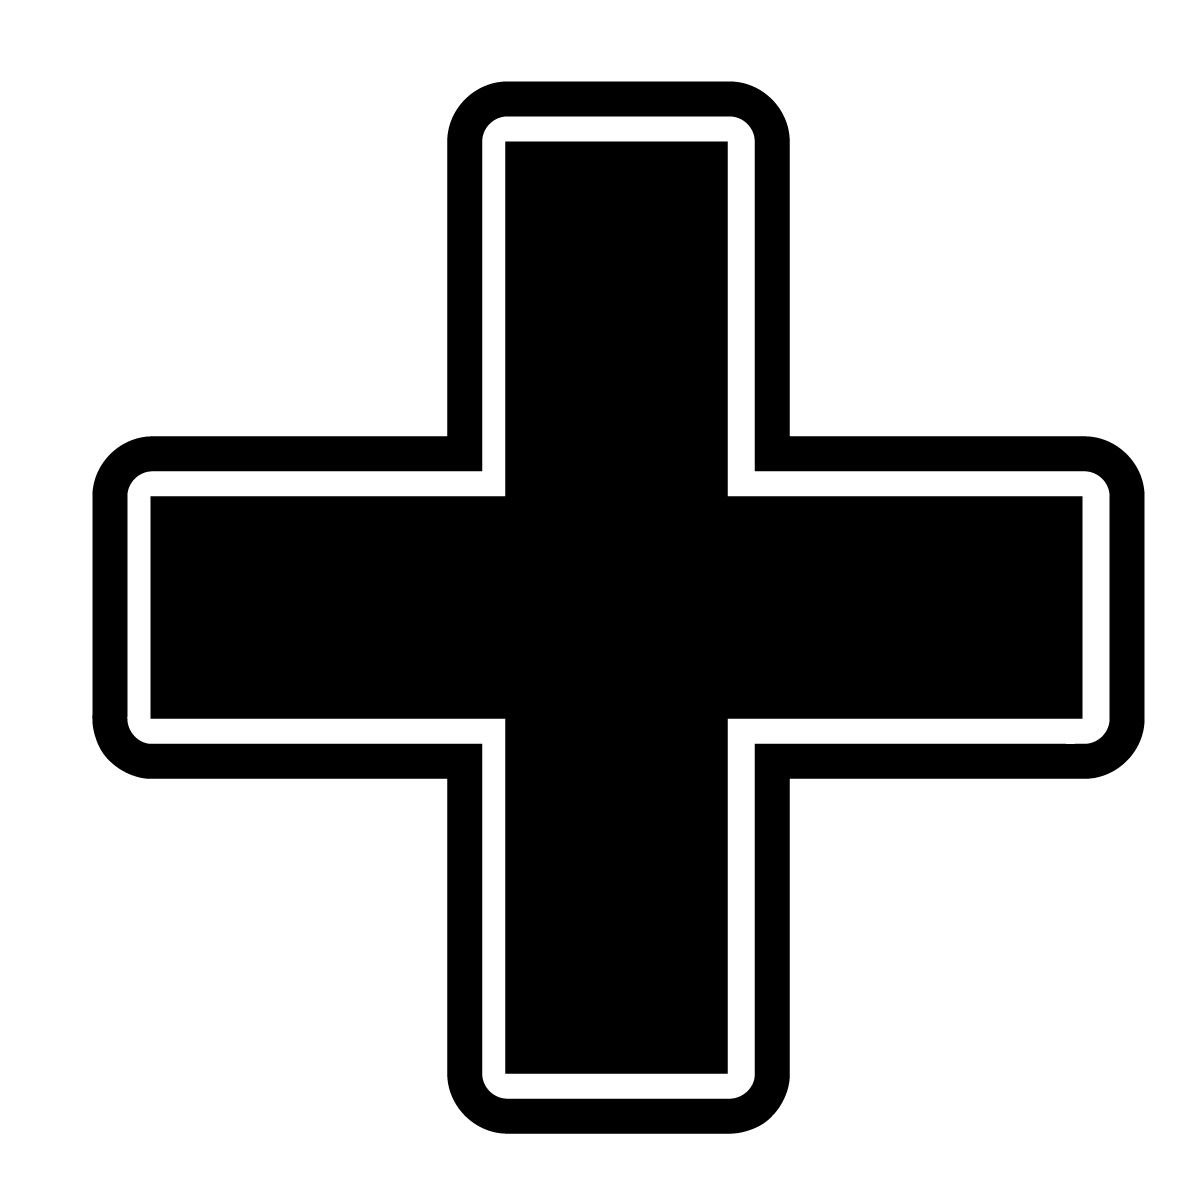
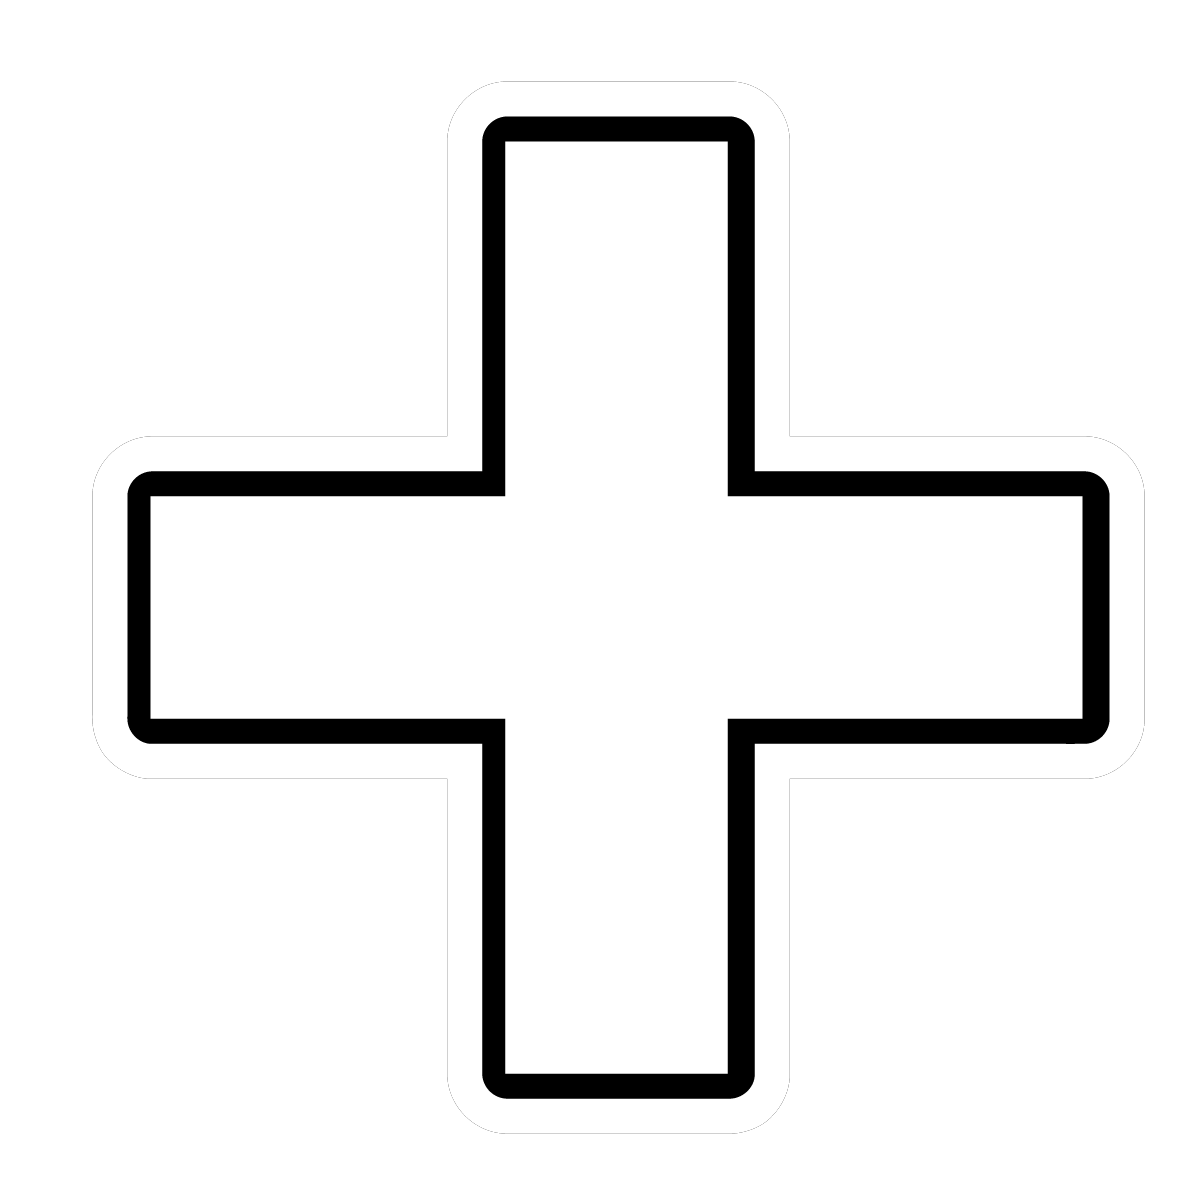
フローティングボタンのデザインの調整

diff --git a/app/javascript/delete_confirm.js b/app/javascript/delete_confirm.js
@@ -1,0 +1,19 @@
+window.addEventListener('load', function(){
+  const articleCheckButtons = document.querySelectorAll(".article-check-button");
+  articleCheckButtons.forEach(function (button) {
+    button.addEventListener("click", () => {
+      const deleteFlg = window.confirm('記事の既読を削除しますか？');
+      if(deleteFlg) {
+        const articleId = button.getAttribute("data");
+        const XHR = new XMLHttpRequest();
+        XHR.open("GET", `/checks/revert/${articleId}`, true);
+        XHR.send();
+        XHR.onload = () => {
+          button.remove();
+        }
+      } else {
+        ;
+      }
+    });
+  });
+});

diff --git a/app/assets/stylesheets/application.css b/app/assets/stylesheets/application.css
@@ -39,10 +39,9 @@ header {
   border-radius: 2px;
 }
 
-.post-btn {
+.post-incident-btn {
   position: fixed;
   bottom: 40px;
   right: 40px;
-  border-radius: 15px;
-  text-decoration: none;
+  box-shadow: 5px 10px 10px gray;
 }
